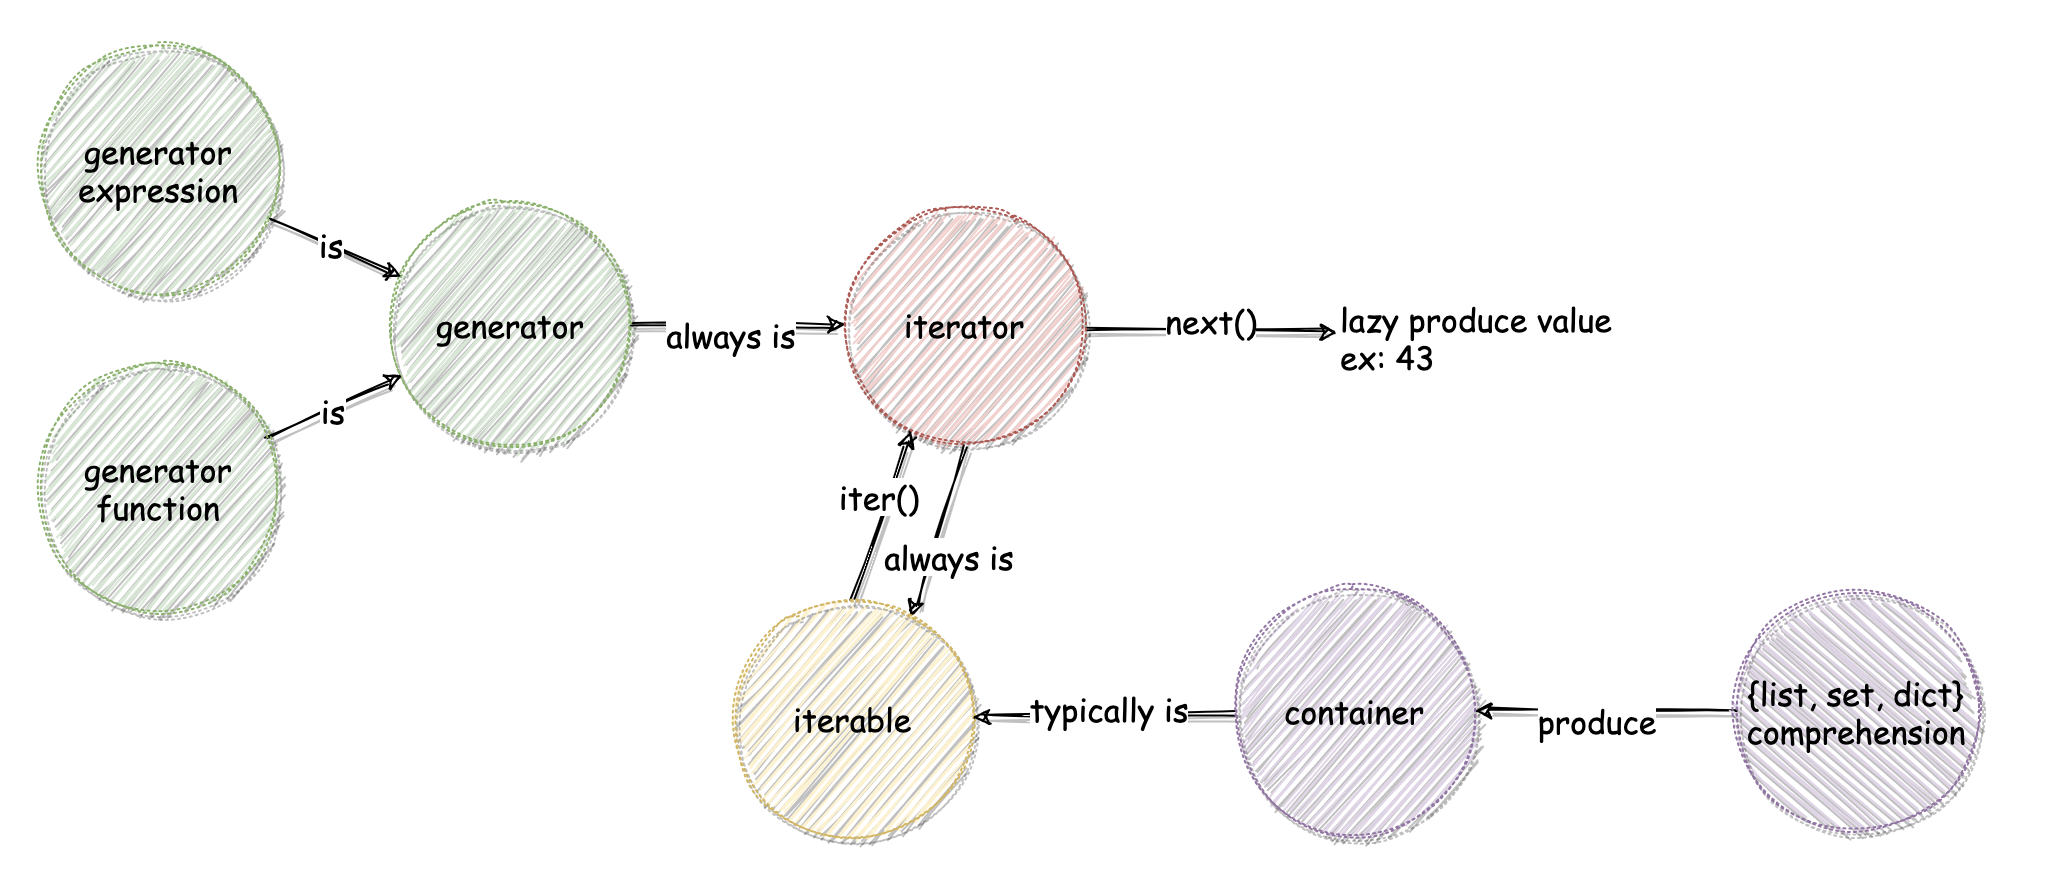
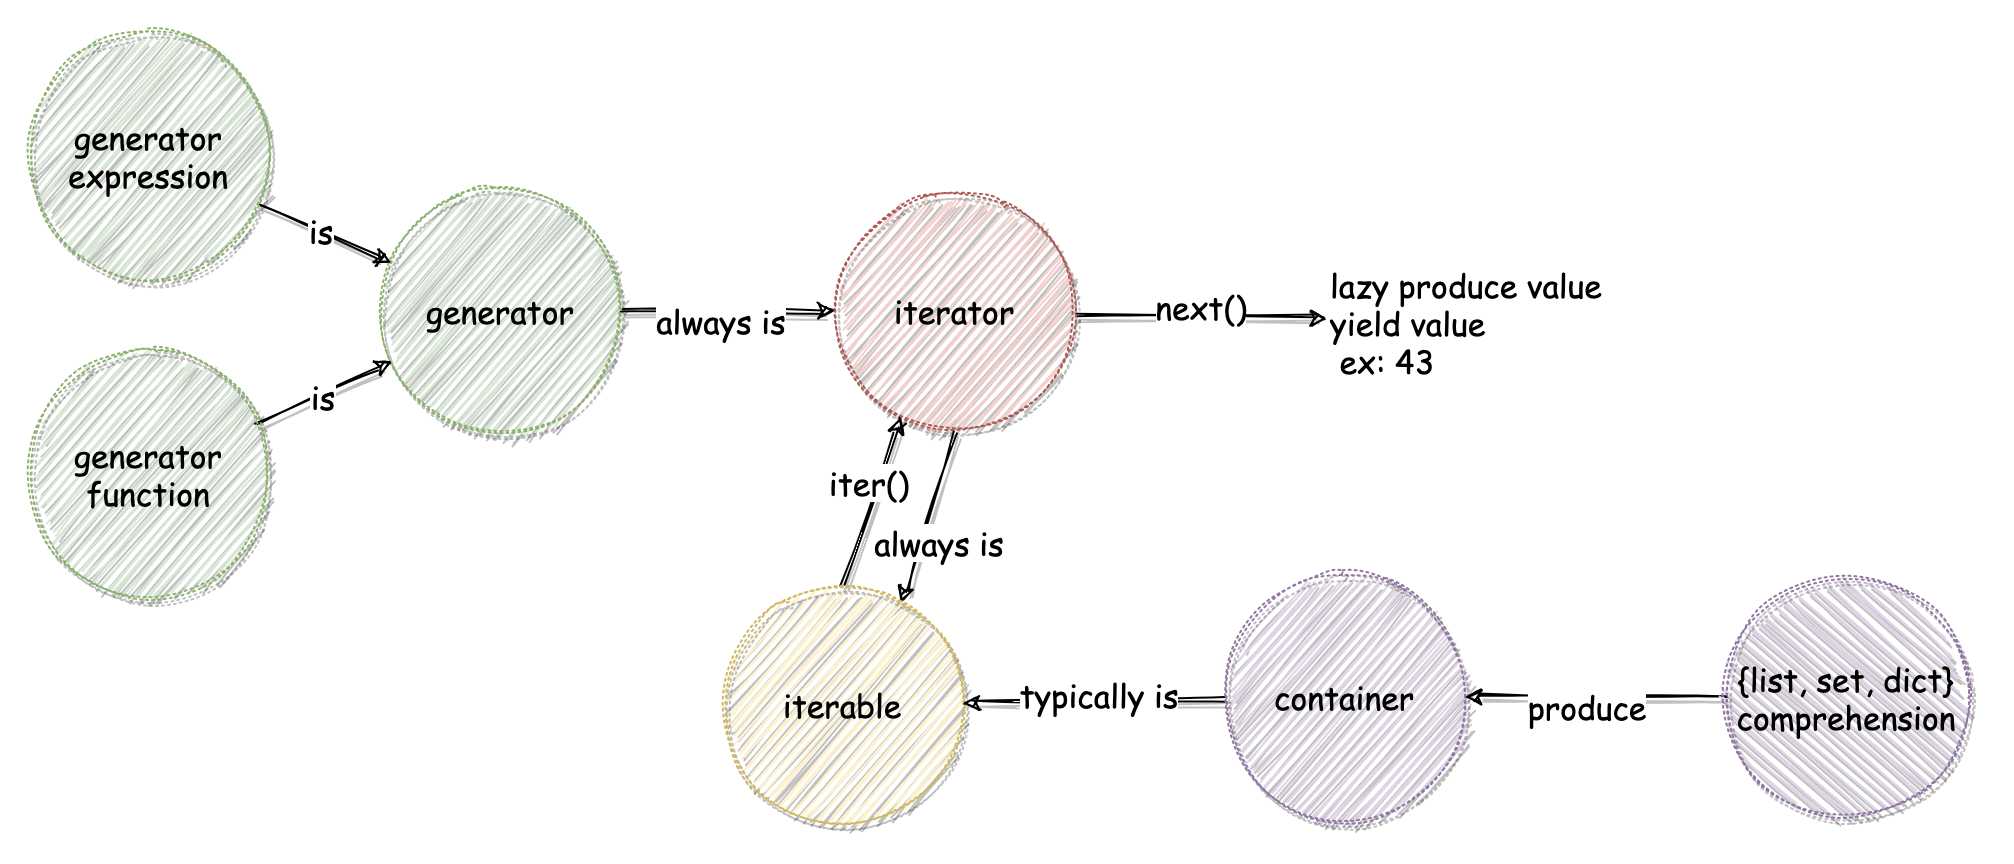
.

Changed region(s): [[0.0, 0.0312, 0.9851, 0.9688]]

diff --git a/python/iterable.md b/python/iterable.md
@@ -10,7 +10,7 @@
 
 要懂 yield 以前, 必須先懂 generator; 而要懂 generator 前, 必須先懂 iterable 及 iterator
 
-![generator_iterator_iterable](/img/iterator_generator.png)
+![generator_iterator_iterable](../img/iterator_generator.png)
 
 
 
@@ -45,6 +45,7 @@ for ii in mylist:   # 任何可以使用 for in 來逐一取值的東西, 就是
 
 - Generator 是個較特殊的 Iterator, 同時它也是個 Iterable.
 - Generator 本身不會把所有資料塞到記憶體, 取而代之的是, 它只在有需要的時候, 產生它所需要的值(此動作我們稱之為: **Lazy Evaluation 惰性求值**)
+- 產生器函式(GF), 通常被用來建立 迭代器(Iterator)
 
 ```py
 mygenr = (x for x in range(3))  # <generator object <genexpr> at 0x7ff92814f450>
@@ -58,8 +59,10 @@ for ii in mygenr:
 
 - yield 本身一定要寫在 function 裡頭, 此 function 稱之為 Generator Function (底下簡稱為 GF)
 - yield 本身有點類似 return, 但相較於 return 回傳一個任意物件, yield 返回了一個 Generator.
-- GF 本身 **yield (返回)** 了一個 Generator
+  - GF 回傳的東西稱作: `迭代器物件(iterator object)`, 又稱作 `產生器物件(generator object)`, 也會被(讓人搞混的)稱作 `一個產生器(a generator)`
+  - 上述的 `a generator`, 記錄了 **函式主體** && **區域變數** && **目前的執行位置(current point of execution)**
 - GF 內部執行到 yield 那一行時, 程式的執行流程會 **返回** 呼叫 GF 的調用方, 等到下次再次調用 GF, 執行流程會回到上次 返回 的下一行開始.
+  - `yield XXX`, 其實就是 `next(iterator)` 會拿到的值(也就是 XXX 啦)
 
 ```py
 def gg():  # 裡面定義了 yield, 所以 gg() 是個 GF

diff --git a/python/README.md b/python/README.md
@@ -8,3 +8,8 @@
 - generator expression, genexp: 產生器表達式
 - list comprehension, listcomp: 串列生成式
 - 
+
+
+# 重要觀念
+
+- Monkey-Patching : 可在 Run Time 動態地變更屬性. 但他就另一種角度來看, 也是種 **eval hack** 的行為. 把它用在 test 能帶來更多的好處
